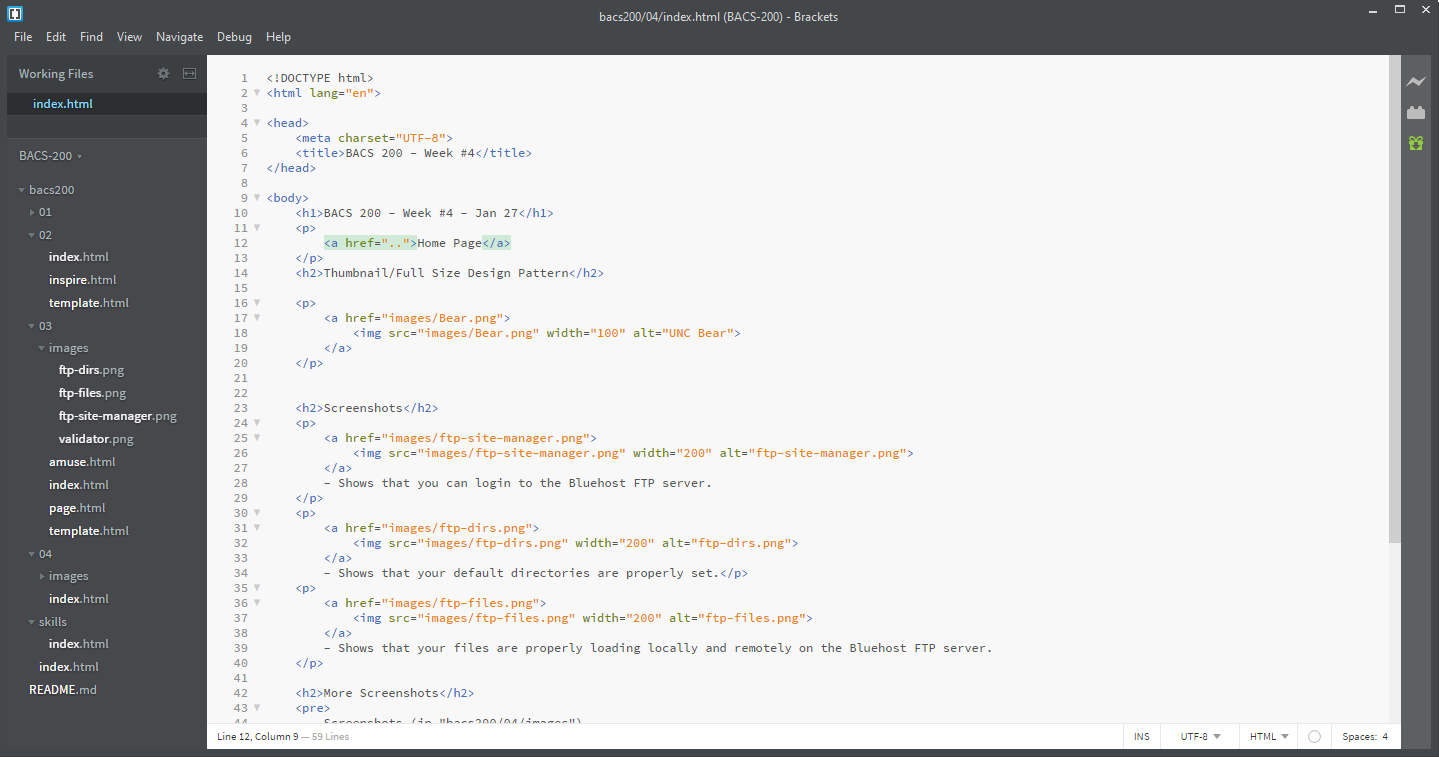
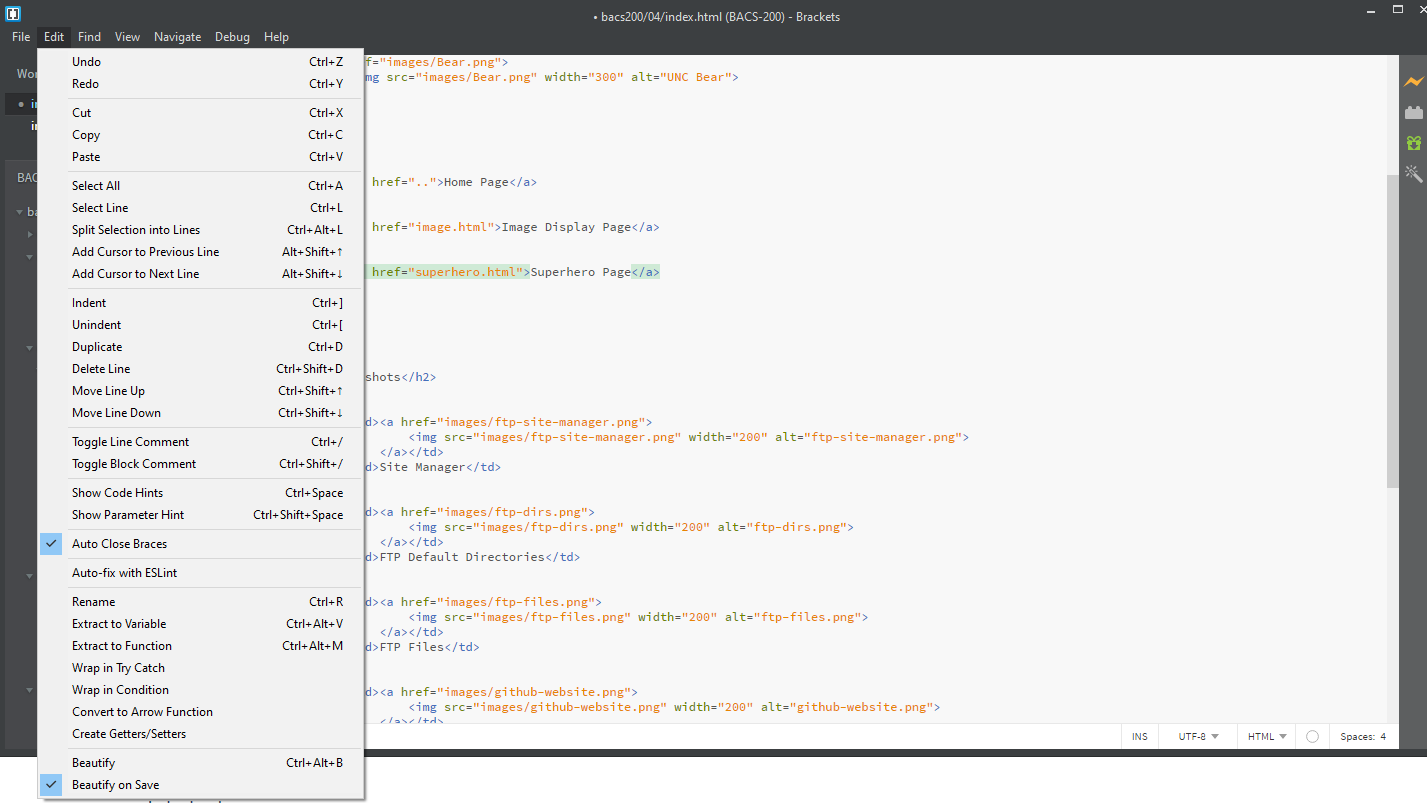
project 4 update

Changed region(s): [[0.0, 0.0, 1.0, 1.0], [0.4008, 0.0, 0.5858, 0.0303], [0.9559, 0.0, 1.0, 0.0303]]

diff --git a/bacs200/04/index.html b/bacs200/04/index.html
@@ -8,66 +8,81 @@
 
 <body>
     <h1>BACS 200 - Week #4 - Feb 7</h1>
-    <p>
-        <a href="..">Home Page</a>
-    </p>
-    <h2>Thumbnail/Full Size Design Pattern</h2>
 
     <p>
         <a href="images/Bear.png">
-            <img src="images/Bear.png" width="300" alt="UNC Bear">
+            <img src="images/Bear.png" width="370" alt="UNC Bear">
         </a>
     </p>
+    <hr>
+
+    <ul>
+        <li>
+            <a href="..">Home Page</a>
+        </li>
+        <li>
+            <a href="image.html">Image Display Page</a>
+        </li>
+        <li>
+            <a href="superhero.html">Superhero Page</a>
+        </li>
+    </ul>
+
+    <hr>
 
 
     <h2>Screenshots</h2>
     <table>
-    <tr>
-        <td><a href="images/ftp-site-manager.png">
-            <img src="images/ftp-site-manager.png" width="200" alt="ftp-site-manager.png">
-        </a></td>
-        <td>Site Manager</td></tr>
-    <tr>
-        <td><a href="images/ftp-dirs.png">
-            <img src="images/ftp-dirs.png" width="200" alt="ftp-dirs.png">
-        </a></td>
-        <td>FTP Default Directories</td></tr>
-    <tr>
-        <td><a href="images/ftp-files.png">
-            <img src="images/ftp-files.png" width="200" alt="ftp-files.png">
-        </a></td>
-        <td>FTP Files</td></tr>
-    <tr>
-        <td><a href="images/github-website.png">
-            <img src="images/github-website.png" width="200" alt="github-website.png">
-        </a></td>
-        <td>Show repo at Github</td></tr>
-    <tr>
-        <td><a href="images/git-clone.png">
-            <img src="images/git-clone.png" width="200" alt="git-clone.png">
-        </a></td>
-        <td>Github Desktop showing my clone</td></tr>
-    <tr>
-        <td><a href="images/bluehost.png">
-            <img src="images/bluehost.png" width="200" alt="bluehost.png">
-        </a></td>
-        <td>Show Advanced tab of the Bluehost control panel</td></tr>
-    <tr>
-        <td><a href="images/file-explorer.png">
-            <img src="images/file-explorer.png" width="200" alt="file-explorer.png">
-        </a></td>
-        <td>Show the Windows files with your repo</td></tr>
-    <tr>
-        <td><a href="images/brackets.png">
-            <img src="images/brackets.png" width="200" alt="brackets.png">
-        </a></td>
-        <td>Brackets showing Open Folder</td></tr>
-    <tr>
-        <td><a href="images/url-game.png">
-            <img src="images/url-game.png" width="200" alt="url-game.png">
-        </a></td>
-        <td>Play the URL game and show the winning view</td></tr></table>
-    
+        <tr>
+            <td><a href="images/ftp-site-manager.png">
+                    <img src="images/ftp-site-manager.png" width="200" alt="ftp-site-manager.png">
+                </a></td>
+            <td>Site Manager</td>
+        </tr>
+        <tr>
+            <td><a href="images/ftp-dirs.png">
+                    <img src="images/ftp-dirs.png" width="200" alt="ftp-dirs.png">
+                </a></td>
+            <td>FTP Default Directories</td>
+        </tr>
+        <tr>
+            <td><a href="images/ftp-files.png">
+                    <img src="images/ftp-files.png" width="200" alt="ftp-files.png">
+                </a></td>
+            <td>FTP Files</td>
+        </tr>
+        <tr>
+            <td><a href="images/github-website.png">
+                    <img src="images/github-website.png" width="200" alt="github-website.png">
+                </a></td>
+            <td>Show repo at Github</td>
+        </tr>
+        <tr>
+            <td><a href="images/git-clone.png">
+                    <img src="images/git-clone.png" width="200" alt="git-clone.png">
+                </a></td>
+            <td>Github Desktop showing my clone</td>
+        </tr>
+        <tr>
+            <td><a href="images/bluehost.png">
+                    <img src="images/bluehost.png" width="200" alt="bluehost.png">
+                </a></td>
+            <td>Show Advanced tab of the Bluehost control panel</td>
+        </tr>
+        <tr>
+            <td><a href="images/file-explorer.png">
+                    <img src="images/file-explorer.png" width="200" alt="file-explorer.png">
+                </a></td>
+            <td>Show the Windows files with your repo</td>
+        </tr>
+        <tr>
+            <td><a href="images/brackets.png">
+                    <img src="images/brackets.png" width="200" alt="brackets.png">
+                </a></td>
+            <td>Brackets showing Open Folder and Beautify</td>
+        </tr>
+    </table>
 
-    
+
+
 </body></html>

diff --git a/bacs200/04/superhero.html b/bacs200/04/superhero.html
@@ -1,0 +1,81 @@
+<!doctype html>
+<html lang="en">
+
+<head>
+    <title>Superheroes</title>
+</head>
+
+<body>
+    <h1>Superheroes</h1>
+    <table>
+        <th>Hero</th>
+        <th>Photo</th>
+        <th>Name</th>
+        <tr>
+            <td>
+                Black Panther
+            </td>
+            <td>
+                <img src="images/black-panther.jpg" alt="Black Panther" width="200">
+            </td>
+            <td>
+                T'Challa
+            </td>
+        </tr>
+        <tr>
+            <td>
+                Black Widow
+            </td>
+            <td>
+                <img src="images/black-widow.jpg" alt="Black Widow" width="200">
+            </td>
+            <td>
+                Natasha Romanoff
+            </td>
+        </tr>
+        <tr>
+            <td>
+                Iron Man
+            </td>
+            <td>
+                <img src="images/iron-man.jpg" alt="Iron Man" width="200">
+            </td>
+            <td>
+                Tony Stark
+            </td>
+        </tr>
+        <tr>
+            <td>
+                Captain America
+            </td>
+            <td>
+                <img src="images/captain-america.jpg" alt="Captain America" width="200">
+            </td>
+            <td>
+                Steve Rogers
+            </td>
+        </tr>
+        <tr>
+            <td>
+                Hulk
+            </td>
+            <td>
+                <img src="images/hulk.jpg" alt="Hulk" width="200">
+            </td>
+            <td>
+                Bruce Banner
+            </td>
+        </tr>
+        <tr>
+            <td>
+                Gamora
+            </td>
+            <td>
+                <img src="images/gamora.jpg" alt="Gamora" width="200">
+            </td>
+            <td>
+                Gamora Zen Whoberi Ben Titan
+            </td>
+        </tr>
+    </table>
+</body></html>

diff --git a/bacs200/03/amuse.html b/bacs200/03/amuse.html
@@ -13,7 +13,7 @@
     <h2>John Mulaney</h2>
     <img src="https://yt3.ggpht.com/a/AGF-l7-j7pHHGPKUx5evabNWrWDyrU7hDlyBujMOHQ=s900-c-k-c0xffffffff-no-rj-mo" alt="John Mulaney" height="450">
     <p>John Mulaney is an American stand up comedian and he never fails to make me cry with laughter. I'm sure basically everyone has heard of him by now but I just can't not mention him when talking about what amuses me.</p>
-    <p>He has several stand-up specials on Netflix including  "New in Town", "The Comeback Kid", and "Kid Gorgeous at Radio City Music Hall". Even if you don't have Netflix there are clips of his comedy bits on youtube. I would suggest you listen to the audio clip of his "Salt and Pepper Diner" bit or watch his "prostate exam" (I know it sounds weird) bit. </p>
+    <p>He has several stand-up specials on Netflix including "New in Town", "The Comeback Kid", and "Kid Gorgeous at Radio City Music Hall". Even if you don't have Netflix there are clips of his comedy bits on youtube. I would suggest you listen to the audio clip of his "Salt and Pepper Diner" bit or watch his "prostate exam" (I know it sounds weird) bit. </p>
     <p><a href="https://www.youtube.com/watch?v=QnkrL42R7gk">Salt and Pepper Diner Bit</a></p>
     <p><a href="https://www.youtube.com/watch?v=BNlyZSvsNjw">Prostate Exam</a></p>
     <p>~~~</p>
@@ -24,7 +24,7 @@
     <p>The game "Joking Hazard" was created by the same team and it's one of my favorites to play with my friends.It's like the comic version of "Cards Against Humanity".</p>
     <p><a href="http://explosm.net/">Cyanide and Happiness Online Comic</a></p>
     <p>~~~</p>
-    
+
     <h2>Drew Gooden</h2>
     <img src="https://preview.redd.it/9evi6p7sibe21.jpg?auto=webp&s=1011f91a80c5914e1f4eee039a0c4a95f532343b" alt="Road Work Ahead" height="450">
     <p>Road work ahead? Uh, yeah. I sure hope it does. </p>

diff --git a/bacs200/04/image.html b/bacs200/04/image.html
@@ -1,0 +1,20 @@
+<!DOCTYPE html>
+<html lang="en">
+
+<head>
+    <meta charset="UTF-8">
+    <title>BACS 200 - Week #4</title>
+</head>
+
+<body>
+    <h1>Image Demo</h1>
+
+    <h2>Thumbnail/Full Size Design Pattern</h2>
+
+    <p>
+        <a href="images/quote.jpg">
+            <img src="images/quote.jpg" width="250" alt="Quote">
+        </a>
+    </p>
+
+</body></html>
